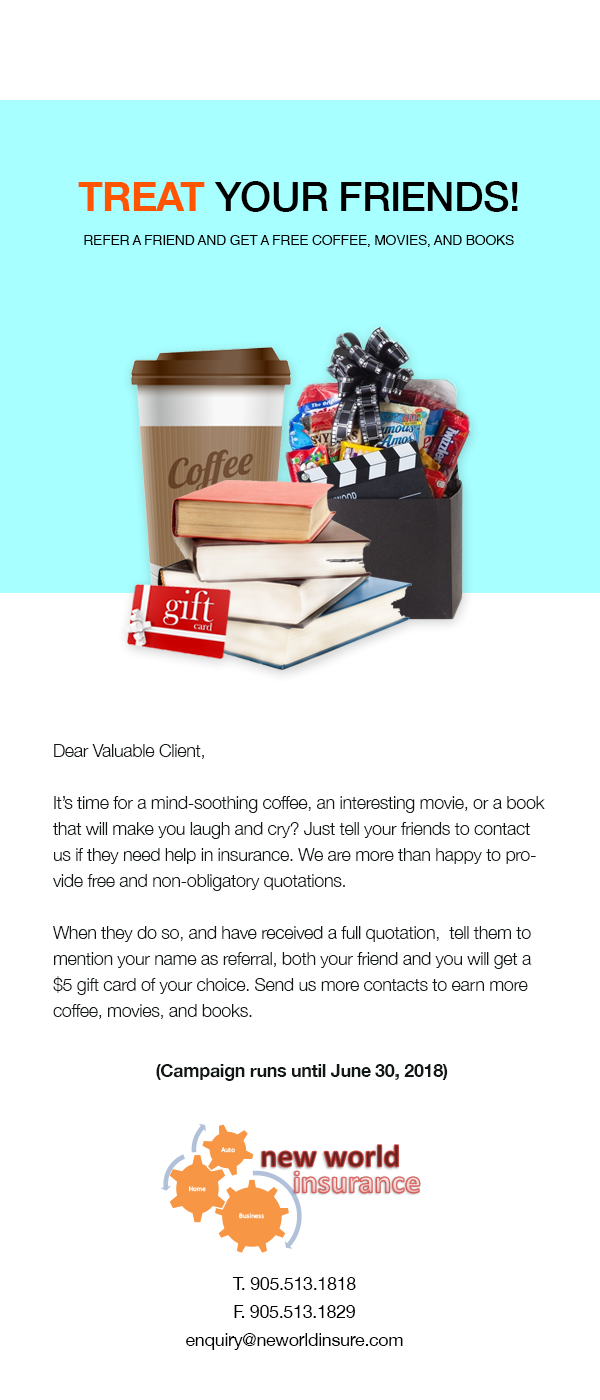
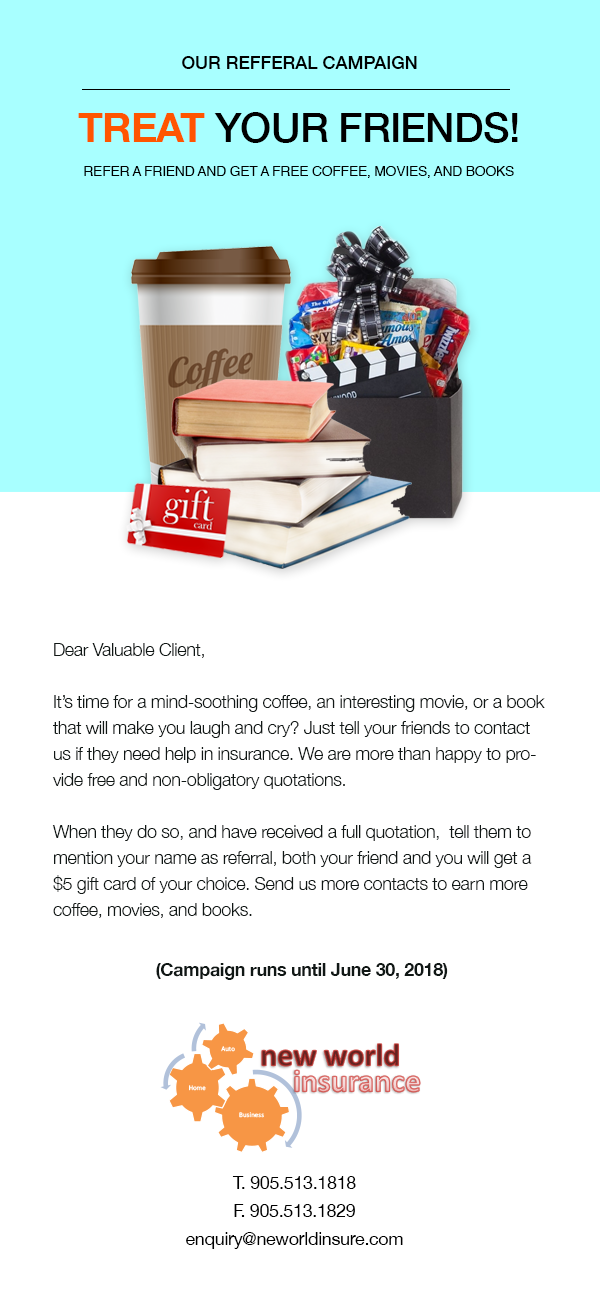
Update Referral Image

diff --git a/English_Newsletter.html b/English_Newsletter.html
@@ -844,19 +844,8 @@
                                     </table>
                                 </td>
                             </tr>
-                            <!-- Fine Print Terms -->
-                            <tr>
-                                <td bgcolor="#ffffff">
-                                    <table role="presentation" cellspacing="0" cellpadding="0" border="0" width="100%">
-                                        <tr>
-                                            <td style="padding: 40px; font-family: sans-serif; font-size: 15px; color: #555555;">
-                                                <h2 style="margin:0 0 10px 0;font-family:sans-serif;font-size:36px;color:#333333;font-weight:bold">Our Refferal Campaign</h2>
-                                            </td>
-                                        </tr>
-                                    </table>
-                                </td>
-                            </tr>
-                            
+                        
+                            <!--Referral Program Image-->
                             <tr>
                                 <td bgcolor="#ffffff" align="center">
                                     <img src="https://raw.githubusercontent.com/newworldinsure/assets/master/Giveaway_AD.png" width="680" height="" alt="alt_text" border="0" align="center" style="width:100%;max-width:680px;height:auto;background:#dddddd;font-family:sans-serif;font-size:15px;color:#555555;margin:auto">
